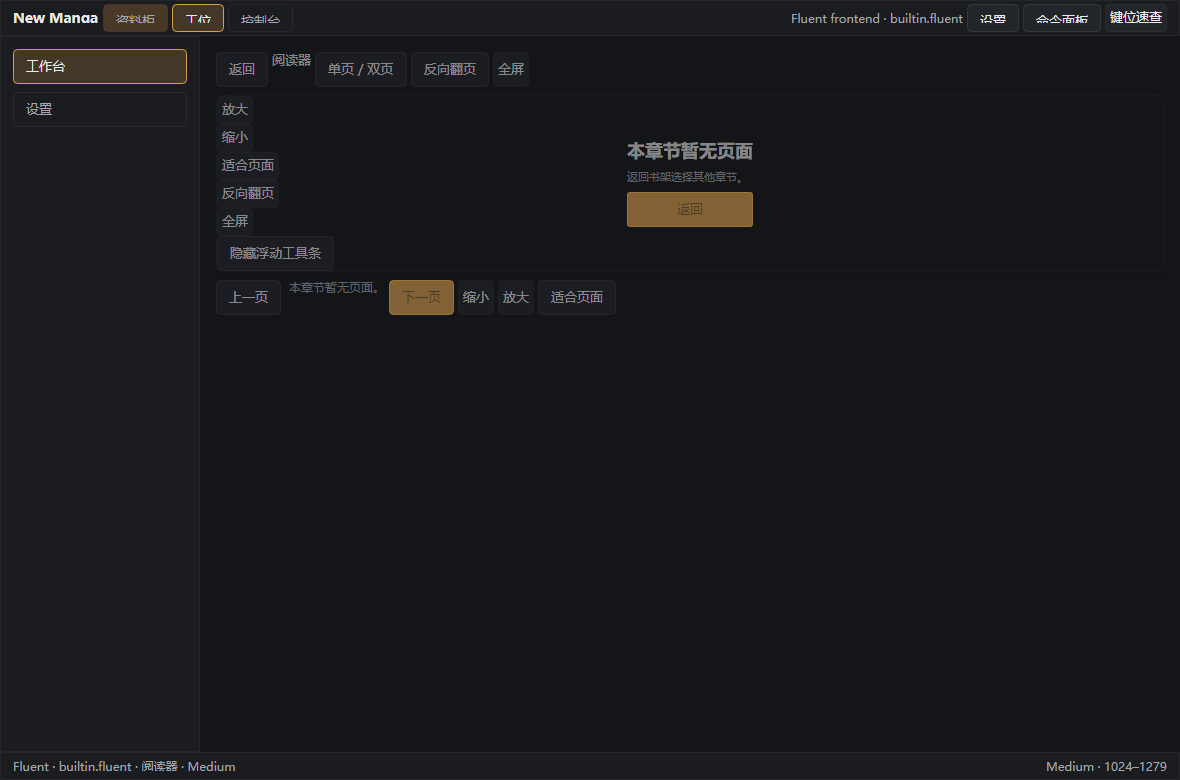
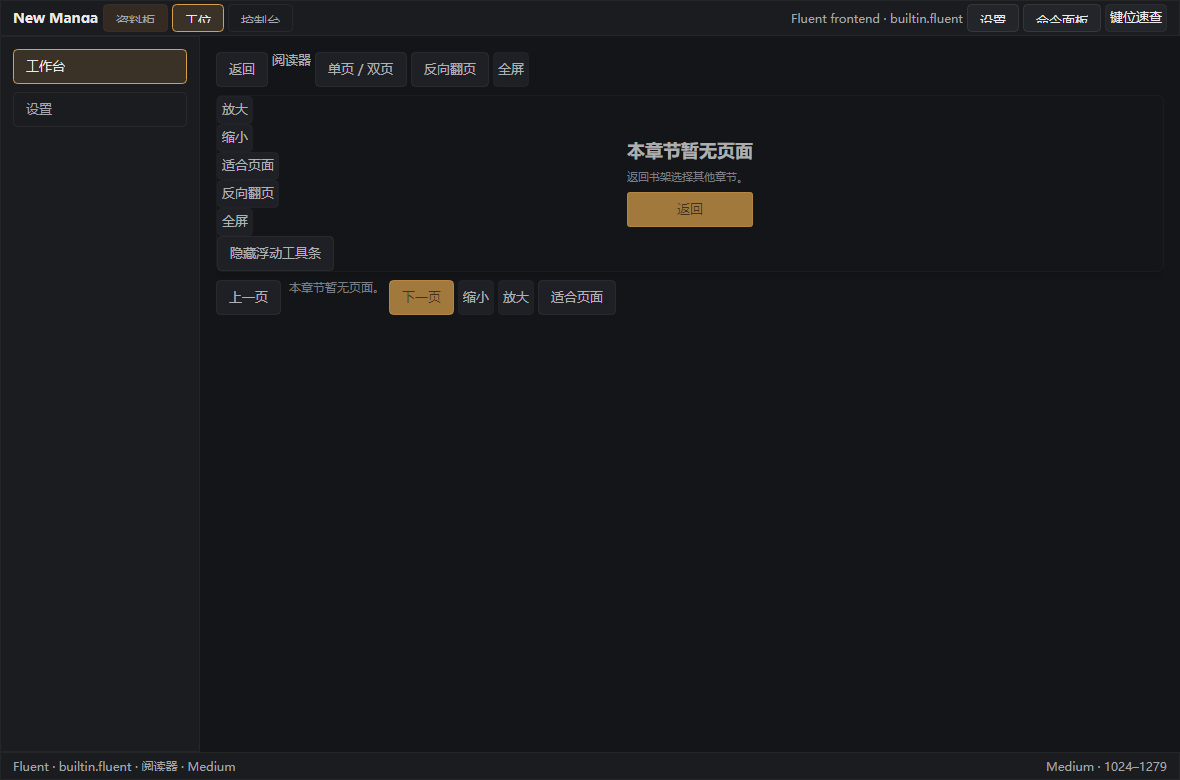
fix(fea-06-residual-2): R2-011 SurfaceCard/IconButton 真实状态通道 + 证据（1272/0/57）

diff --git a/apps/desktop-avalonia/tests/NewManga.DesignSystem.Tests/FluentResidual2StateEffectiveTests.cs b/apps/desktop-avalonia/tests/NewManga.DesignSystem.Tests/FluentResidual2StateEffectiveTests.cs
@@ -60,34 +60,52 @@ public sealed class FluentResidual2StateEffectiveTests
             void AssertDefaultTokens(string context)
             {
                 Assert.Equal(TokenColor(app, "Nm.Color.Bg.Raised"), Solid(card.Background));
-                Assert.Equal(TokenColor(app, "Nm.Color.Line.Subtle"), Solid(card.BorderBrush));
                 Assert.Equal(ThemeTestHarness.ValueOf<Thickness>(app, "Nm.Border.Hairline"), card.BorderThickness);
                 Assert.Equal(ThemeTestHarness.ValueOf<CornerRadius>(app, "Nm.Corner.Fluent.Md"), card.CornerRadius);
                 Assert.Equal(ThemeTestHarness.ValueOf<BoxShadows>(app, "Nm.Elevation.1"), card.BoxShadow);
                 _ = context;
             }
 
-            // default
+                        // default
             AssertDefaultTokens("default");
-            // hover: SurfaceCard is a stateless container — the design-inventory hover cell has no
-            // style channel here, so the frozen default tokens must resolve unchanged (no drift).
+            Assert.Equal(TokenColor(app, "Nm.Color.Line.Subtle"), Solid(card.BorderBrush));
+            // hover (R2-011): border channel = Line.Default
             MoveTo(window, card);
             RunJobs();
             Assert.True(card.IsPointerOver);
-            AssertDefaultTokens("hover");
-            // selected class
+            Assert.Equal(TokenColor(app, "Nm.Color.Line.Default"), Solid(card.BorderBrush));
+            // selected (R2-011): accent border + elevation 2
             card.Classes.Add("selected");
             RunJobs();
-            AssertDefaultTokens("selected");
-            // disabled
+            Assert.Equal(TokenColor(app, "Nm.Color.Accent.Base"), Solid(card.BorderBrush));
+            Assert.Equal(ThemeTestHarness.ValueOf<BoxShadows>(app, "Nm.Elevation.2"), card.BoxShadow);
+            // disabled (R2-011): opacity token
             card.IsEnabled = false;
             RunJobs();
-            AssertDefaultTokens("disabled");
+            Assert.Equal(ThemeTestHarness.ValueOf<double>(app, "Nm.Opacity.Disabled"), card.Opacity);
             Assert.False(card.IsEffectivelyEnabled);
         }
         finally { window.Close(); }
     }
 
+    [AvaloniaFact]
+    public void IconButton_Checked_ResolvesTheAccentMutedStateChannel()
+    {
+        using var manager = ThemeTestHarness.CreateInitialized();
+        var app = Application.Current!;
+        var button = new Button { Content = "图标", Classes = { "fluent-icon" }, Width = 40 };
+        var window = new Window { Width = 160, Height = 80, Content = button };
+        try
+        {
+            window.Show();
+            RunJobs();
+            button.Classes.Add("checked");
+            RunJobs();
+            Assert.Equal(TokenColor(app, "Nm.Color.Accent.Muted"), Solid(button.Background));
+            Assert.Equal(TokenColor(app, "Nm.Color.Accent.Base"), Solid(button.BorderBrush));
+        }
+        finally { window.Close(); }
+    }
     [AvaloniaFact]
     public void BookCardAndBookRow_Disabled_ResolveTheDisabledOpacityToken()
     {
@@ -153,7 +171,7 @@ public sealed class FluentResidual2StateEffectiveTests
     }
 
     [AvaloniaFact]
-    public void IconButton_HoverResolvesAccentMuted_CheckedKeepsDefaultTokens()
+    public void IconButton_HoverResolvesAccentMuted_CheckedResolvesTheStateChannel()
     {
         using var manager = ThemeTestHarness.CreateInitialized();
         var app = Application.Current!;
@@ -169,13 +187,13 @@ public sealed class FluentResidual2StateEffectiveTests
             Assert.True(icon.IsPointerOver);
             Assert.Equal(TokenColor(app, "Nm.Color.Accent.Muted"), Solid(icon.Background)); // hover
 
-            // The inventory lists a checked cell, but no style channel exists for it; the frozen default
-            // tokens must hold under the class (recorded as "no channel" in expected-tokens.md).
+            // R2-011: the checked class now has a real style channel (accent muted + accent border).
             window.MouseMove(new Point(5, 5), RawInputModifiers.None);
             RunJobs();
             icon.Classes.Add("checked");
             RunJobs();
-            Assert.Equal(TokenColor(app, "Nm.Color.Bg.Raised"), Solid(icon.Background));
+            Assert.Equal(TokenColor(app, "Nm.Color.Accent.Muted"), Solid(icon.Background));
+            Assert.Equal(TokenColor(app, "Nm.Color.Accent.Base"), Solid(icon.BorderBrush));
         }
         finally { window.Close(); }
     }

diff --git a/apps/desktop-avalonia/tests/NewManga.App.Tests/FluentResidual2VisualEvidenceTests.cs b/apps/desktop-avalonia/tests/NewManga.App.Tests/FluentResidual2VisualEvidenceTests.cs
@@ -126,6 +126,7 @@ public sealed class FluentResidual2VisualEvidenceTests
         {
             ("surface-card", "default", new SurfaceCard { Width = 200, Height = 90 }, 280, 140),
             ("surface-card", "disabled", new SurfaceCard { Width = 200, Height = 90, IsEnabled = false }, 280, 140),
+            ("surface-card", "selected", new SurfaceCard { Width = 200, Height = 90, Classes = { "selected" } }, 280, 140),
             ("book-card", "default", new BookCard { Content = "作品", Width = 160, Height = 72 }, 220, 120),
             ("book-card", "disabled", new BookCard { Content = "作品", Width = 160, Height = 72, IsEnabled = false }, 220, 120),
             ("book-row", "default", new BookRow { Content = "作品行", Width = 240, Height = 36 }, 300, 90),
@@ -135,6 +136,7 @@ public sealed class FluentResidual2VisualEvidenceTests
             ("secondary-button", "default", new Button { Content = "次操作", Classes = { "fluent-secondary" }, Width = 120 }, 200, 80),
             ("danger-button", "default", new Button { Content = "危险", Classes = { "fluent-danger" }, Width = 120 }, 200, 80),
             ("icon-button", "default", new Button { Content = "图标", Width = 40 }, 90, 80),
+            ("icon-button", "checked", new Button { Content = "图标", Classes = { "checked" }, Width = 40 }, 90, 80),
             ("toggle-switch", "disabled", new ToggleSwitch { IsEnabled = false, Width = 80 }, 140, 70),
             ("slider", "default", new Slider { Width = 160, Value = 40 }, 220, 80),
             ("slider", "disabled", new Slider { Width = 160, Value = 40, IsEnabled = false }, 220, 80),

diff --git a/verification/FEA-06-RESIDUAL-2/visuals/visual-inventory.md b/verification/FEA-06-RESIDUAL-2/visuals/visual-inventory.md
@@ -1,29 +1,31 @@
 | file | head | group | component/page | state | mode | viewport | theme | frame | command | EXIT | signed_by | signed_at |
 |---|---|---|---|---|---|---|---|---|---|---|---|---|
-| `pages--shelf--default--full--light.png` | `5a2692c052bbfb5f986e2b2bd8f76e224c4f9f69` | pages | shelf | default | full | 1180x780 | light | mid | `dotnet test --filter FullyQualifiedName~FluentResidual2VisualEvidenceTests` | 0 | (待独立 Reviewer) | — |
-| `pages--workbench--default--full--light.png` | `5a2692c052bbfb5f986e2b2bd8f76e224c4f9f69` | pages | workbench | default | full | 1180x780 | light | mid | `dotnet test --filter FullyQualifiedName~FluentResidual2VisualEvidenceTests` | 0 | (待独立 Reviewer) | — |
-| `pages--reader--default--full--light.png` | `5a2692c052bbfb5f986e2b2bd8f76e224c4f9f69` | pages | reader | default | full | 1180x780 | light | mid | `dotnet test --filter FullyQualifiedName~FluentResidual2VisualEvidenceTests` | 0 | (待独立 Reviewer) | — |
-| `pages--settings--default--full--light.png` | `5a2692c052bbfb5f986e2b2bd8f76e224c4f9f69` | pages | settings | default | full | 1180x780 | light | mid | `dotnet test --filter FullyQualifiedName~FluentResidual2VisualEvidenceTests` | 0 | (待独立 Reviewer) | — |
-| `components--surface-card--default--full--current.png` | `5a2692c052bbfb5f986e2b2bd8f76e224c4f9f69` | components | surface-card | default | full | 280x140 | current | mid | `dotnet test --filter FullyQualifiedName~FluentResidual2VisualEvidenceTests` | 0 | (待独立 Reviewer) | — |
-| `components--surface-card--disabled--full--current.png` | `5a2692c052bbfb5f986e2b2bd8f76e224c4f9f69` | components | surface-card | disabled | full | 280x140 | current | mid | `dotnet test --filter FullyQualifiedName~FluentResidual2VisualEvidenceTests` | 0 | (待独立 Reviewer) | — |
-| `components--book-card--default--full--current.png` | `5a2692c052bbfb5f986e2b2bd8f76e224c4f9f69` | components | book-card | default | full | 220x120 | current | mid | `dotnet test --filter FullyQualifiedName~FluentResidual2VisualEvidenceTests` | 0 | (待独立 Reviewer) | — |
-| `components--book-card--disabled--full--current.png` | `5a2692c052bbfb5f986e2b2bd8f76e224c4f9f69` | components | book-card | disabled | full | 220x120 | current | mid | `dotnet test --filter FullyQualifiedName~FluentResidual2VisualEvidenceTests` | 0 | (待独立 Reviewer) | — |
-| `components--book-row--default--full--current.png` | `5a2692c052bbfb5f986e2b2bd8f76e224c4f9f69` | components | book-row | default | full | 300x90 | current | mid | `dotnet test --filter FullyQualifiedName~FluentResidual2VisualEvidenceTests` | 0 | (待独立 Reviewer) | — |
-| `components--book-row--disabled--full--current.png` | `5a2692c052bbfb5f986e2b2bd8f76e224c4f9f69` | components | book-row | disabled | full | 300x90 | current | mid | `dotnet test --filter FullyQualifiedName~FluentResidual2VisualEvidenceTests` | 0 | (待独立 Reviewer) | — |
-| `components--primary-button--default--full--current.png` | `5a2692c052bbfb5f986e2b2bd8f76e224c4f9f69` | components | primary-button | default | full | 200x80 | current | mid | `dotnet test --filter FullyQualifiedName~FluentResidual2VisualEvidenceTests` | 0 | (待独立 Reviewer) | — |
-| `components--primary-button--disabled--full--current.png` | `5a2692c052bbfb5f986e2b2bd8f76e224c4f9f69` | components | primary-button | disabled | full | 200x80 | current | mid | `dotnet test --filter FullyQualifiedName~FluentResidual2VisualEvidenceTests` | 0 | (待独立 Reviewer) | — |
-| `components--secondary-button--default--full--current.png` | `5a2692c052bbfb5f986e2b2bd8f76e224c4f9f69` | components | secondary-button | default | full | 200x80 | current | mid | `dotnet test --filter FullyQualifiedName~FluentResidual2VisualEvidenceTests` | 0 | (待独立 Reviewer) | — |
-| `components--danger-button--default--full--current.png` | `5a2692c052bbfb5f986e2b2bd8f76e224c4f9f69` | components | danger-button | default | full | 200x80 | current | mid | `dotnet test --filter FullyQualifiedName~FluentResidual2VisualEvidenceTests` | 0 | (待独立 Reviewer) | — |
-| `components--icon-button--default--full--current.png` | `5a2692c052bbfb5f986e2b2bd8f76e224c4f9f69` | components | icon-button | default | full | 90x80 | current | mid | `dotnet test --filter FullyQualifiedName~FluentResidual2VisualEvidenceTests` | 0 | (待独立 Reviewer) | — |
-| `components--toggle-switch--disabled--full--current.png` | `5a2692c052bbfb5f986e2b2bd8f76e224c4f9f69` | components | toggle-switch | disabled | full | 140x70 | current | mid | `dotnet test --filter FullyQualifiedName~FluentResidual2VisualEvidenceTests` | 0 | (待独立 Reviewer) | — |
-| `components--slider--default--full--current.png` | `5a2692c052bbfb5f986e2b2bd8f76e224c4f9f69` | components | slider | default | full | 220x80 | current | mid | `dotnet test --filter FullyQualifiedName~FluentResidual2VisualEvidenceTests` | 0 | (待独立 Reviewer) | — |
-| `components--slider--disabled--full--current.png` | `5a2692c052bbfb5f986e2b2bd8f76e224c4f9f69` | components | slider | disabled | full | 220x80 | current | mid | `dotnet test --filter FullyQualifiedName~FluentResidual2VisualEvidenceTests` | 0 | (待独立 Reviewer) | — |
-| `components--region-box--default--full--current.png` | `5a2692c052bbfb5f986e2b2bd8f76e224c4f9f69` | components | region-box | default | full | 200x110 | current | mid | `dotnet test --filter FullyQualifiedName~FluentResidual2VisualEvidenceTests` | 0 | (待独立 Reviewer) | — |
-| `components--reader-progress--default--full--current.png` | `5a2692c052bbfb5f986e2b2bd8f76e224c4f9f69` | components | reader-progress | default | full | 300x70 | current | mid | `dotnet test --filter FullyQualifiedName~FluentResidual2VisualEvidenceTests` | 0 | (待独立 Reviewer) | — |
-| `components--chapter-list--default--full--current.png` | `5a2692c052bbfb5f986e2b2bd8f76e224c4f9f69` | components | chapter-list | default | full | 280x120 | current | mid | `dotnet test --filter FullyQualifiedName~FluentResidual2VisualEvidenceTests` | 0 | (待独立 Reviewer) | — |
-| `components--page-thumb-strip--default--full--current.png` | `5a2692c052bbfb5f986e2b2bd8f76e224c4f9f69` | components | page-thumb-strip | default | full | 300x120 | current | mid | `dotnet test --filter FullyQualifiedName~FluentResidual2VisualEvidenceTests` | 0 | (待独立 Reviewer) | — |
-| `components--empty-state--default--full--current.png` | `5a2692c052bbfb5f986e2b2bd8f76e224c4f9f69` | components | empty-state | default | full | 300x180 | current | mid | `dotnet test --filter FullyQualifiedName~FluentResidual2VisualEvidenceTests` | 0 | (待独立 Reviewer) | — |
-| `pages--shelf--default--full--dark.png` | `5a2692c052bbfb5f986e2b2bd8f76e224c4f9f69` | pages | shelf | default | full | 1180x780 | dark | mid | `dotnet test --filter FullyQualifiedName~FluentResidual2VisualEvidenceTests` | 0 | (待独立 Reviewer) | — |
-| `pages--workbench--default--full--dark.png` | `5a2692c052bbfb5f986e2b2bd8f76e224c4f9f69` | pages | workbench | default | full | 1180x780 | dark | mid | `dotnet test --filter FullyQualifiedName~FluentResidual2VisualEvidenceTests` | 0 | (待独立 Reviewer) | — |
-| `pages--reader--default--full--dark.png` | `5a2692c052bbfb5f986e2b2bd8f76e224c4f9f69` | pages | reader | default | full | 1180x780 | dark | mid | `dotnet test --filter FullyQualifiedName~FluentResidual2VisualEvidenceTests` | 0 | (待独立 Reviewer) | — |
-| `pages--settings--default--full--dark.png` | `5a2692c052bbfb5f986e2b2bd8f76e224c4f9f69` | pages | settings | default | full | 1180x780 | dark | mid | `dotnet test --filter FullyQualifiedName~FluentResidual2VisualEvidenceTests` | 0 | (待独立 Reviewer) | — |
+| `pages--shelf--default--full--light.png` | `6b705b6a2d70ea7f87ca8b36a6378c5dcd7ed577` | pages | shelf | default | full | 1180x780 | light | mid | `dotnet test --filter FullyQualifiedName~FluentResidual2VisualEvidenceTests` | 0 | (待独立 Reviewer) | — |
+| `pages--workbench--default--full--light.png` | `6b705b6a2d70ea7f87ca8b36a6378c5dcd7ed577` | pages | workbench | default | full | 1180x780 | light | mid | `dotnet test --filter FullyQualifiedName~FluentResidual2VisualEvidenceTests` | 0 | (待独立 Reviewer) | — |
+| `pages--reader--default--full--light.png` | `6b705b6a2d70ea7f87ca8b36a6378c5dcd7ed577` | pages | reader | default | full | 1180x780 | light | mid | `dotnet test --filter FullyQualifiedName~FluentResidual2VisualEvidenceTests` | 0 | (待独立 Reviewer) | — |
+| `pages--settings--default--full--light.png` | `6b705b6a2d70ea7f87ca8b36a6378c5dcd7ed577` | pages | settings | default | full | 1180x780 | light | mid | `dotnet test --filter FullyQualifiedName~FluentResidual2VisualEvidenceTests` | 0 | (待独立 Reviewer) | — |
+| `components--surface-card--default--full--current.png` | `6b705b6a2d70ea7f87ca8b36a6378c5dcd7ed577` | components | surface-card | default | full | 280x140 | current | mid | `dotnet test --filter FullyQualifiedName~FluentResidual2VisualEvidenceTests` | 0 | (待独立 Reviewer) | — |
+| `components--surface-card--disabled--full--current.png` | `6b705b6a2d70ea7f87ca8b36a6378c5dcd7ed577` | components | surface-card | disabled | full | 280x140 | current | mid | `dotnet test --filter FullyQualifiedName~FluentResidual2VisualEvidenceTests` | 0 | (待独立 Reviewer) | — |
+| `components--surface-card--selected--full--current.png` | `6b705b6a2d70ea7f87ca8b36a6378c5dcd7ed577` | components | surface-card | selected | full | 280x140 | current | mid | `dotnet test --filter FullyQualifiedName~FluentResidual2VisualEvidenceTests` | 0 | (待独立 Reviewer) | — |
+| `components--book-card--default--full--current.png` | `6b705b6a2d70ea7f87ca8b36a6378c5dcd7ed577` | components | book-card | default | full | 220x120 | current | mid | `dotnet test --filter FullyQualifiedName~FluentResidual2VisualEvidenceTests` | 0 | (待独立 Reviewer) | — |
+| `components--book-card--disabled--full--current.png` | `6b705b6a2d70ea7f87ca8b36a6378c5dcd7ed577` | components | book-card | disabled | full | 220x120 | current | mid | `dotnet test --filter FullyQualifiedName~FluentResidual2VisualEvidenceTests` | 0 | (待独立 Reviewer) | — |
+| `components--book-row--default--full--current.png` | `6b705b6a2d70ea7f87ca8b36a6378c5dcd7ed577` | components | book-row | default | full | 300x90 | current | mid | `dotnet test --filter FullyQualifiedName~FluentResidual2VisualEvidenceTests` | 0 | (待独立 Reviewer) | — |
+| `components--book-row--disabled--full--current.png` | `6b705b6a2d70ea7f87ca8b36a6378c5dcd7ed577` | components | book-row | disabled | full | 300x90 | current | mid | `dotnet test --filter FullyQualifiedName~FluentResidual2VisualEvidenceTests` | 0 | (待独立 Reviewer) | — |
+| `components--primary-button--default--full--current.png` | `6b705b6a2d70ea7f87ca8b36a6378c5dcd7ed577` | components | primary-button | default | full | 200x80 | current | mid | `dotnet test --filter FullyQualifiedName~FluentResidual2VisualEvidenceTests` | 0 | (待独立 Reviewer) | — |
+| `components--primary-button--disabled--full--current.png` | `6b705b6a2d70ea7f87ca8b36a6378c5dcd7ed577` | components | primary-button | disabled | full | 200x80 | current | mid | `dotnet test --filter FullyQualifiedName~FluentResidual2VisualEvidenceTests` | 0 | (待独立 Reviewer) | — |
+| `components--secondary-button--default--full--current.png` | `6b705b6a2d70ea7f87ca8b36a6378c5dcd7ed577` | components | secondary-button | default | full | 200x80 | current | mid | `dotnet test --filter FullyQualifiedName~FluentResidual2VisualEvidenceTests` | 0 | (待独立 Reviewer) | — |
+| `components--danger-button--default--full--current.png` | `6b705b6a2d70ea7f87ca8b36a6378c5dcd7ed577` | components | danger-button | default | full | 200x80 | current | mid | `dotnet test --filter FullyQualifiedName~FluentResidual2VisualEvidenceTests` | 0 | (待独立 Reviewer) | — |
+| `components--icon-button--default--full--current.png` | `6b705b6a2d70ea7f87ca8b36a6378c5dcd7ed577` | components | icon-button | default | full | 90x80 | current | mid | `dotnet test --filter FullyQualifiedName~FluentResidual2VisualEvidenceTests` | 0 | (待独立 Reviewer) | — |
+| `components--icon-button--checked--full--current.png` | `6b705b6a2d70ea7f87ca8b36a6378c5dcd7ed577` | components | icon-button | checked | full | 90x80 | current | mid | `dotnet test --filter FullyQualifiedName~FluentResidual2VisualEvidenceTests` | 0 | (待独立 Reviewer) | — |
+| `components--toggle-switch--disabled--full--current.png` | `6b705b6a2d70ea7f87ca8b36a6378c5dcd7ed577` | components | toggle-switch | disabled | full | 140x70 | current | mid | `dotnet test --filter FullyQualifiedName~FluentResidual2VisualEvidenceTests` | 0 | (待独立 Reviewer) | — |
+| `components--slider--default--full--current.png` | `6b705b6a2d70ea7f87ca8b36a6378c5dcd7ed577` | components | slider | default | full | 220x80 | current | mid | `dotnet test --filter FullyQualifiedName~FluentResidual2VisualEvidenceTests` | 0 | (待独立 Reviewer) | — |
+| `components--slider--disabled--full--current.png` | `6b705b6a2d70ea7f87ca8b36a6378c5dcd7ed577` | components | slider | disabled | full | 220x80 | current | mid | `dotnet test --filter FullyQualifiedName~FluentResidual2VisualEvidenceTests` | 0 | (待独立 Reviewer) | — |
+| `components--region-box--default--full--current.png` | `6b705b6a2d70ea7f87ca8b36a6378c5dcd7ed577` | components | region-box | default | full | 200x110 | current | mid | `dotnet test --filter FullyQualifiedName~FluentResidual2VisualEvidenceTests` | 0 | (待独立 Reviewer) | — |
+| `components--reader-progress--default--full--current.png` | `6b705b6a2d70ea7f87ca8b36a6378c5dcd7ed577` | components | reader-progress | default | full | 300x70 | current | mid | `dotnet test --filter FullyQualifiedName~FluentResidual2VisualEvidenceTests` | 0 | (待独立 Reviewer) | — |
+| `components--chapter-list--default--full--current.png` | `6b705b6a2d70ea7f87ca8b36a6378c5dcd7ed577` | components | chapter-list | default | full | 280x120 | current | mid | `dotnet test --filter FullyQualifiedName~FluentResidual2VisualEvidenceTests` | 0 | (待独立 Reviewer) | — |
+| `components--page-thumb-strip--default--full--current.png` | `6b705b6a2d70ea7f87ca8b36a6378c5dcd7ed577` | components | page-thumb-strip | default | full | 300x120 | current | mid | `dotnet test --filter FullyQualifiedName~FluentResidual2VisualEvidenceTests` | 0 | (待独立 Reviewer) | — |
+| `components--empty-state--default--full--current.png` | `6b705b6a2d70ea7f87ca8b36a6378c5dcd7ed577` | components | empty-state | default | full | 300x180 | current | mid | `dotnet test --filter FullyQualifiedName~FluentResidual2VisualEvidenceTests` | 0 | (待独立 Reviewer) | — |
+| `pages--shelf--default--full--dark.png` | `6b705b6a2d70ea7f87ca8b36a6378c5dcd7ed577` | pages | shelf | default | full | 1180x780 | dark | mid | `dotnet test --filter FullyQualifiedName~FluentResidual2VisualEvidenceTests` | 0 | (待独立 Reviewer) | — |
+| `pages--workbench--default--full--dark.png` | `6b705b6a2d70ea7f87ca8b36a6378c5dcd7ed577` | pages | workbench | default | full | 1180x780 | dark | mid | `dotnet test --filter FullyQualifiedName~FluentResidual2VisualEvidenceTests` | 0 | (待独立 Reviewer) | — |
+| `pages--reader--default--full--dark.png` | `6b705b6a2d70ea7f87ca8b36a6378c5dcd7ed577` | pages | reader | default | full | 1180x780 | dark | mid | `dotnet test --filter FullyQualifiedName~FluentResidual2VisualEvidenceTests` | 0 | (待独立 Reviewer) | — |
+| `pages--settings--default--full--dark.png` | `6b705b6a2d70ea7f87ca8b36a6378c5dcd7ed577` | pages | settings | default | full | 1180x780 | dark | mid | `dotnet test --filter FullyQualifiedName~FluentResidual2VisualEvidenceTests` | 0 | (待独立 Reviewer) | — |
